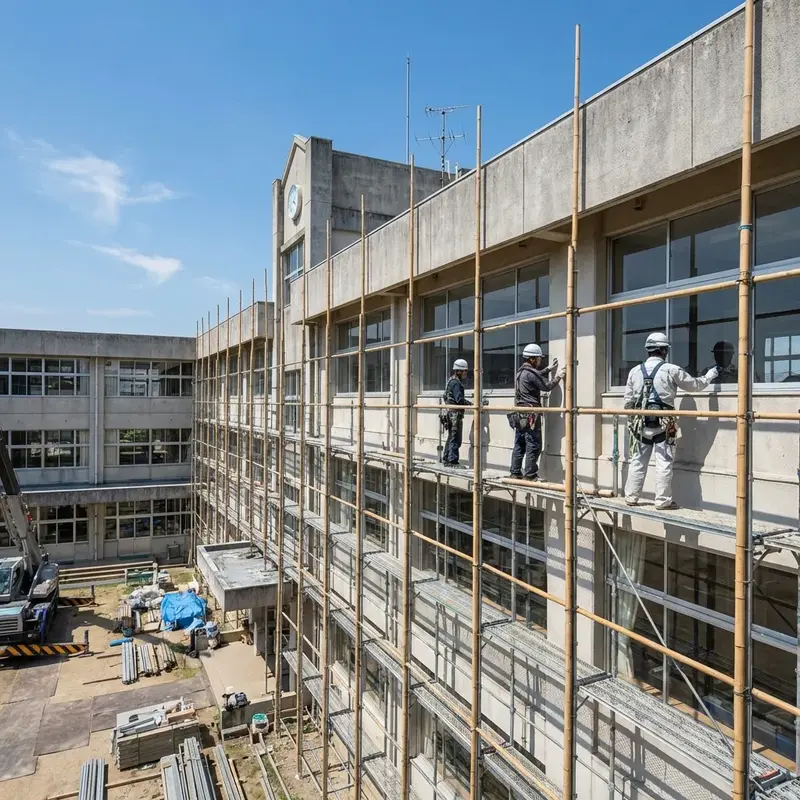
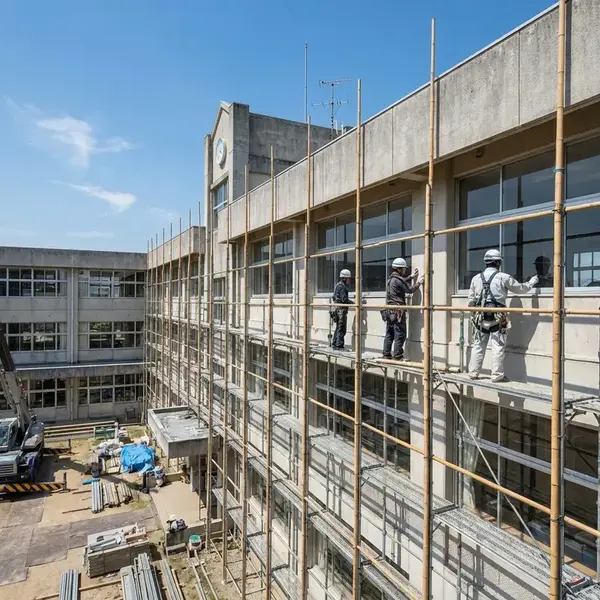
ギャラリー画像の重量オーバー（200KB超）が原因

diff --git a/templates/type-c/index.html b/templates/type-c/index.html
@@ -399,13 +399,13 @@
                 <!-- Set 1 -->
                 <div class="w-[300px] md:w-[400px] flex-shrink-0 group pr-8">
                     <div class="img-mask shadow-lg">
-                        <img src="./trust_gallery_morning_mixed_v2.webp" alt="Morning Assembly" class="w-full h-[250px] object-cover group-hover:scale-110 transition duration-700" loading="lazy" decoding="async">
+                        <img src="./trust_gallery_morning_mixed_v2.webp?v=4" alt="Morning Assembly" class="w-full h-[250px] object-cover group-hover:scale-110 transition duration-700" loading="lazy" decoding="async">
                     </div>
                     <p class="text-xs font-bold text-slate-400 mt-4 tracking-widest text-center">08:00 朝礼・点呼</p>
                 </div>
                 <div class="w-[300px] md:w-[400px] flex-shrink-0 group pr-8">
                     <div class="img-mask shadow-lg">
-                        <img src="./trust_gallery_safety_young.webp" alt="Safety Check" class="w-full h-[250px] object-cover group-hover:scale-110 transition duration-700" loading="lazy" decoding="async">
+                        <img src="./trust_gallery_safety_young.webp?v=4" alt="Safety Check" class="w-full h-[250px] object-cover group-hover:scale-110 transition duration-700" loading="lazy" decoding="async">
                     </div>
                     <p class="text-xs font-bold text-slate-400 mt-4 tracking-widest text-center">安全確認（指差し呼称）</p>
                 </div>
@@ -417,13 +417,13 @@
                 </div>
                 <div class="w-[300px] md:w-[400px] flex-shrink-0 group pr-8">
                     <div class="img-mask shadow-lg">
-                        <img src="./trust_gallery_break_young.webp" alt="Break Time" class="w-full h-[250px] object-cover group-hover:scale-110 transition duration-700" loading="lazy" decoding="async">
+                        <img src="./trust_gallery_break_young.webp?v=4" alt="Break Time" class="w-full h-[250px] object-cover group-hover:scale-110 transition duration-700" loading="lazy" decoding="async">
                     </div>
                     <p class="text-xs font-bold text-slate-400 mt-4 tracking-widest text-center">休憩中のひととき</p>
                 </div>
                 <div class="w-[300px] md:w-[400px] flex-shrink-0 group pr-8">
                     <div class="img-mask shadow-lg">
-                        <img src="./trust_gallery_bbq_new.webp" alt="BBQ" class="w-full h-[250px] object-cover group-hover:scale-110 transition duration-700" loading="lazy" decoding="async">
+                        <img src="./trust_gallery_bbq_new.webp?v=4" alt="BBQ" class="w-full h-[250px] object-cover group-hover:scale-110 transition duration-700" loading="lazy" decoding="async">
                     </div>
                     <p class="text-xs font-bold text-slate-400 mt-4 tracking-widest text-center">社内イベント（BBQ大会）</p>
                 </div>
